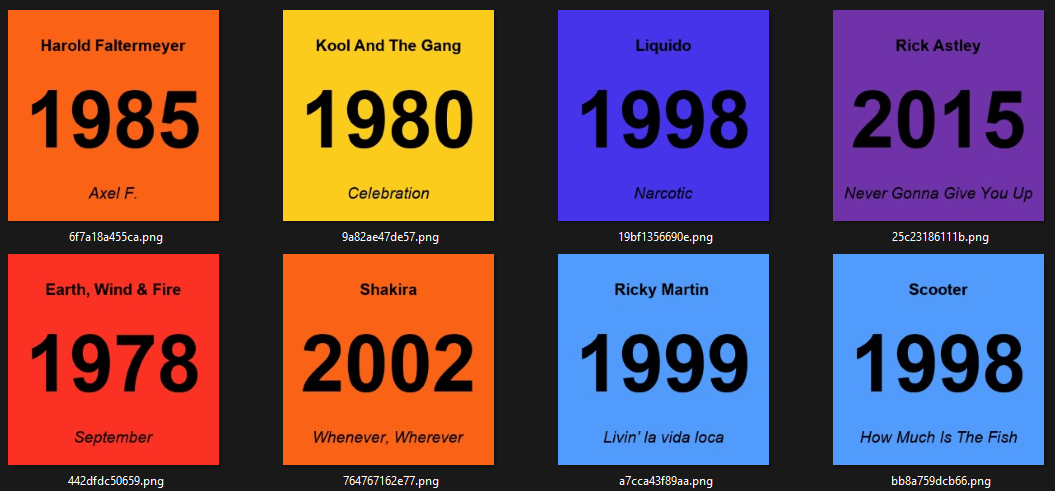
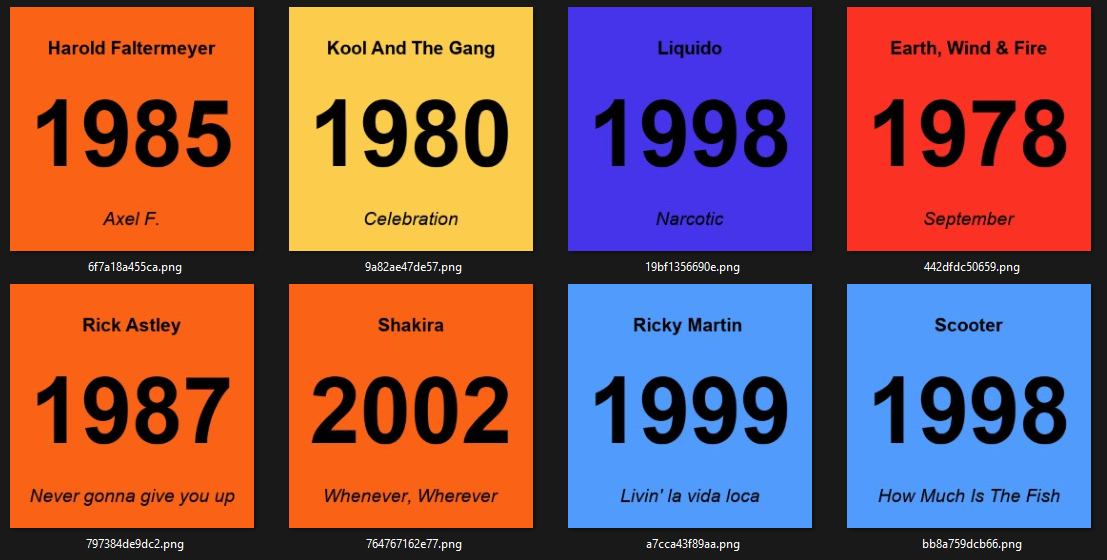
adapted color-values for yellow

diff --git a/Generate.py b/Generate.py
@@ -40,7 +40,7 @@ class SongCardGenerator:
         [111, 50, 168], #purple
         [250, 49, 35], #red
         [250, 98, 22], #orange
-        [252, 204, 28], #yellow
+        [252, 205, 76], #yellow
         [81, 155, 252], #bright blue
         [245, 156, 54], #bright orange
         [182, 110, 250], #bright purple
